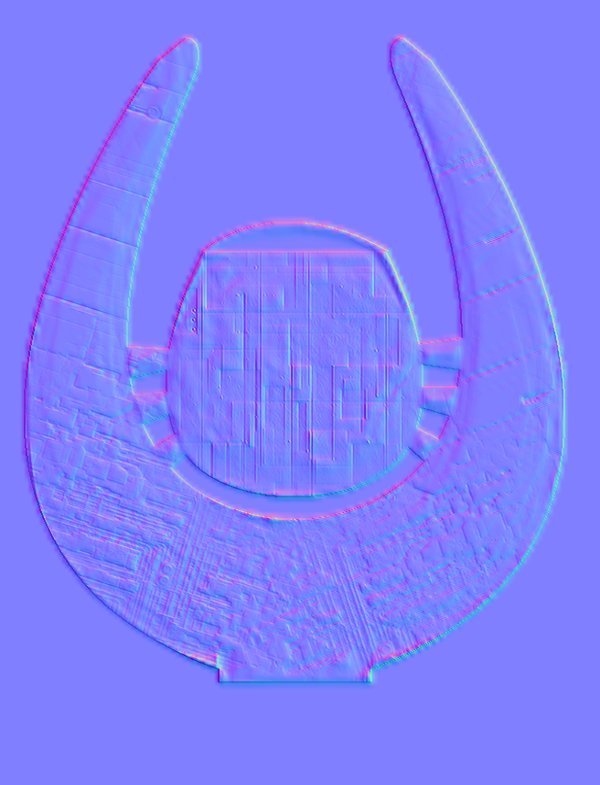
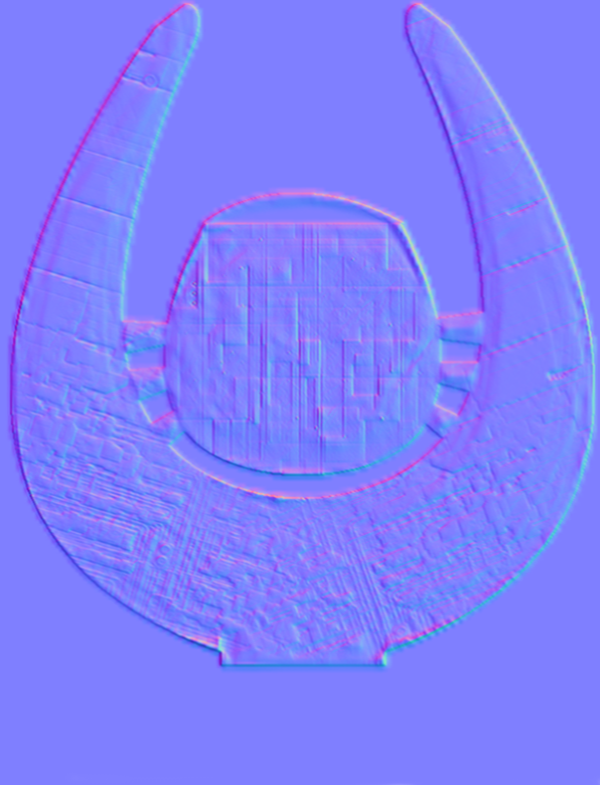
made white lite

Changed region(s): [[0.0, 0.0, 1.0, 0.8866]]

diff --git a/core/src/deaddream/screens/GameScreen.java b/core/src/deaddream/screens/GameScreen.java
@@ -88,15 +88,15 @@ public class GameScreen implements Screen {
 
 
 	// position of our light
-	final Vector3 DEFAULT_LIGHT_POS = new Vector3(0f, 0f, 0.07f);
+	final Vector3 DEFAULT_LIGHT_POS = new Vector3(50f, 50f, 0.07f);
 	// the color of our light
-	final Vector3 DEFAULT_LIGHT_COLOR = new Vector3(0.5f, 0.7f, 0.8f);
+	final Vector3 DEFAULT_LIGHT_COLOR = new Vector3(3f, 3f, 3f);
 	// the ambient color (color to use when unlit)
 	final Vector3 DEFAULT_AMBIENT_COLOR = new Vector3(0.7f, 0.7f, 0.7f);
 	// the attenuation factor: x=constant, y=linear, z=quadratic
-	final Vector3 DEFAULT_ATTENUATION = new Vector3(0.4f, 3f, 20f);
+	final Vector3 DEFAULT_ATTENUATION = new Vector3(0.4f, 0.4f, 0.1f);
 	// the ambient intensity (brightness to use when unlit)
-	final float DEFAULT_AMBIENT_INTENSITY = 0.9f;
+	final float DEFAULT_AMBIENT_INTENSITY = 1f;
 	final float DEFAULT_STRENGTH = 1f;
 	
 	final Color NORMAL_VCOLOR = new Color(1f,1f,1f,DEFAULT_STRENGTH);
@@ -241,8 +241,8 @@ public class GameScreen implements Screen {
 				fxBatch.begin();
 				
 				// get y-down light position based on mouse/touch
-				lightPos.x = Gdx.input.getX();
-				lightPos.y = Gdx.graphics.getHeight() - Gdx.input.getY();
+				//lightPos.x = Gdx.input.getX();
+				//lightPos.y = Gdx.graphics.getHeight() - Gdx.input.getY();
 				
 				
 				// update our uniforms
@@ -261,15 +261,15 @@ public class GameScreen implements Screen {
 		stage.draw();
 		
 		
-		//graphDebugRenderer.render(game.shapeRenderer);
-		/*if (selectedUnit != null) {
+		/*graphDebugRenderer.render(game.shapeRenderer);
+		if (selectedUnit != null) {
 			game.shapeRenderer.begin(ShapeType.Line);
 			TiledNode node = graph.getNodeByCoordinates(selectedUnit.getBody().getPosition().x * Constants.PPM,
 					selectedUnit.getBody().getPosition().y * Constants.PPM);
 			graphDebugRenderer.renderNode(node, game.shapeRenderer, Color.BLUE);
 			game.shapeRenderer.end();
-		}*/
-		//graphDebugRenderer.renderPath(path, game.shapeRenderer);
+		}
+		graphDebugRenderer.renderPath(path, game.shapeRenderer);*/
 		
 
 	}
